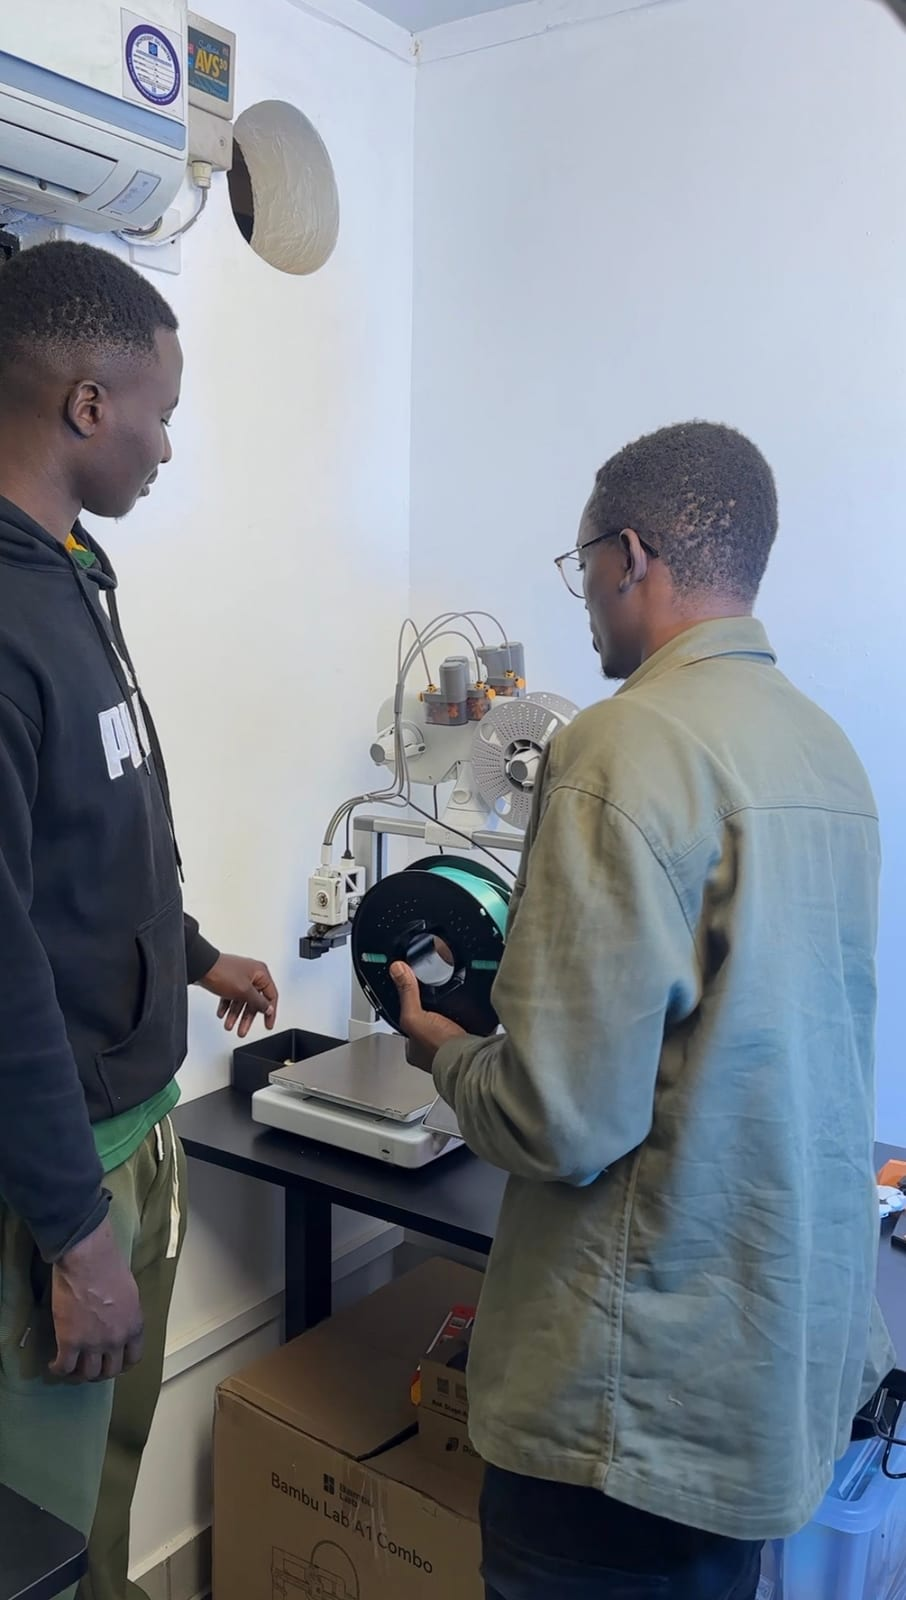
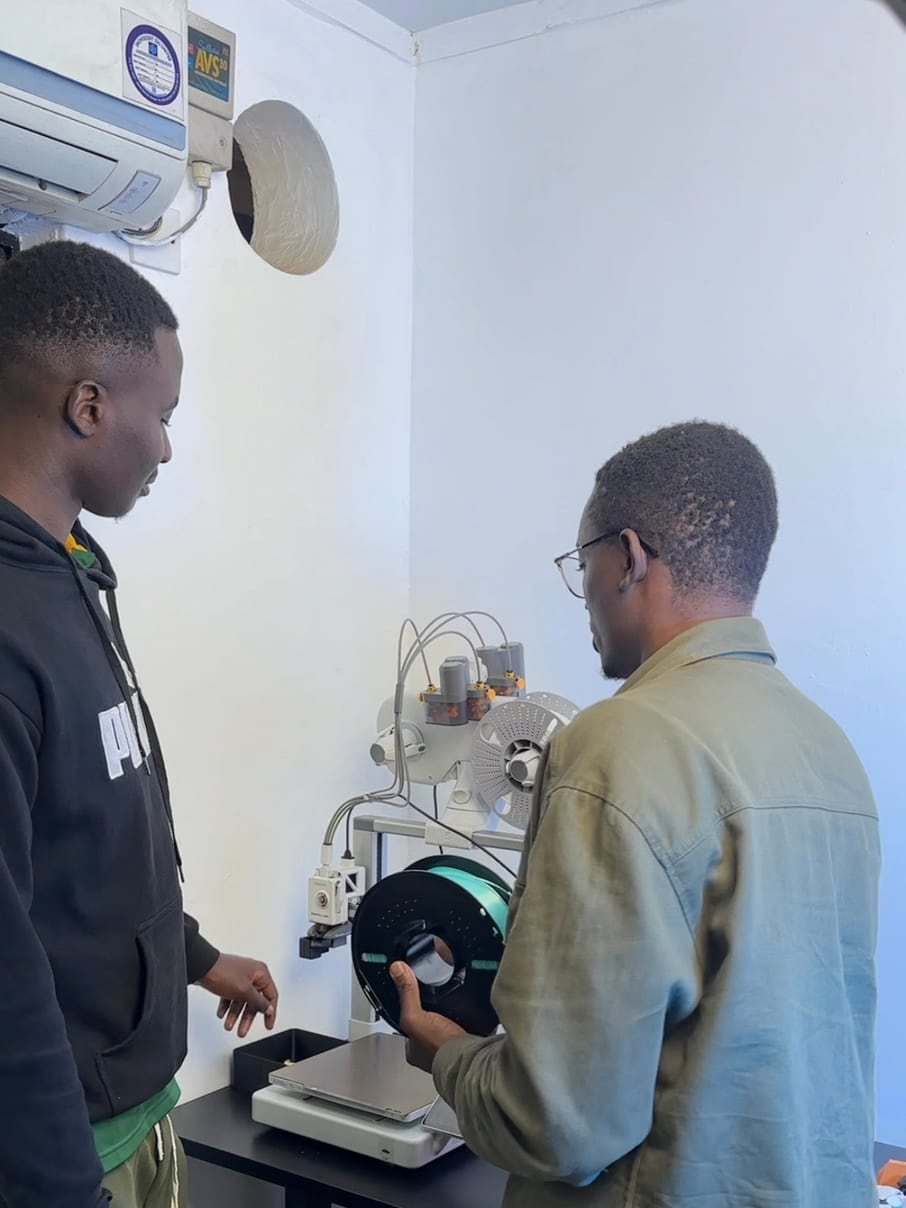
Crop Training & Workshops photo to match the other service photos
The source was a tall 9:16 screenshot while the other five service
photos are standard 3:4 phone photos, so it read as oddly elongated
next to them. Re-cropped to the same 3:4 shape.

diff --git a/services.html b/services.html
@@ -159,7 +159,7 @@
       </div>
 
       <div class="service-card">
-        <div class="service-photo"><img src="assets/img/services/training-workshops.jpg" alt="Tynmas Labs team members reviewing a 3D printer and filament together" width="906" height="1600" loading="lazy"></div>
+        <div class="service-photo"><img src="assets/img/services/training-workshops.jpg" alt="Tynmas Labs team members reviewing a 3D printer and filament together" width="906" height="1208" loading="lazy"></div>
         <div class="service-body">
         <h3>Training &amp; Workshops</h3>
         <p>Hands-on sessions covering 3D modelling, slicing and running prints reliably in-house.</p>
